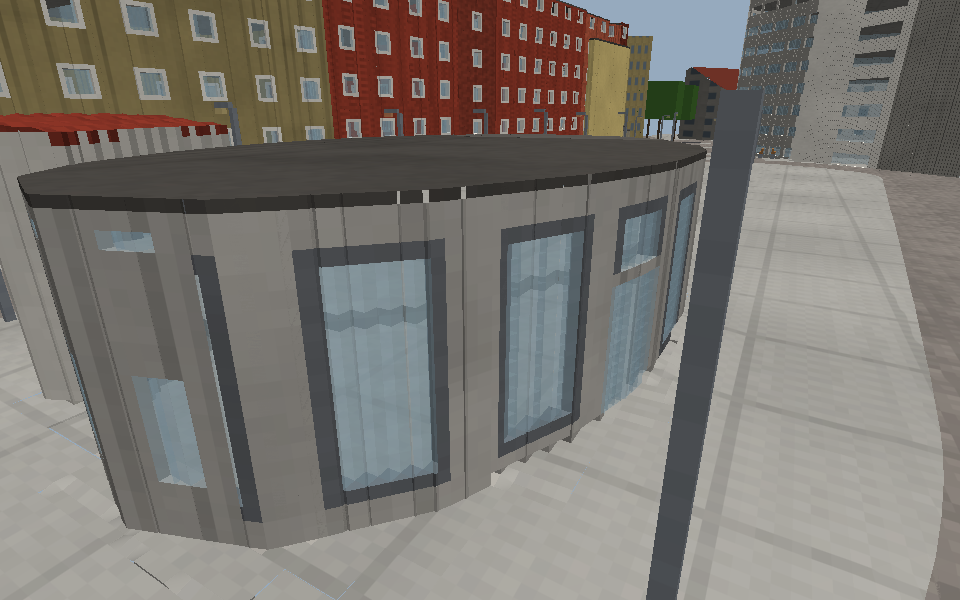
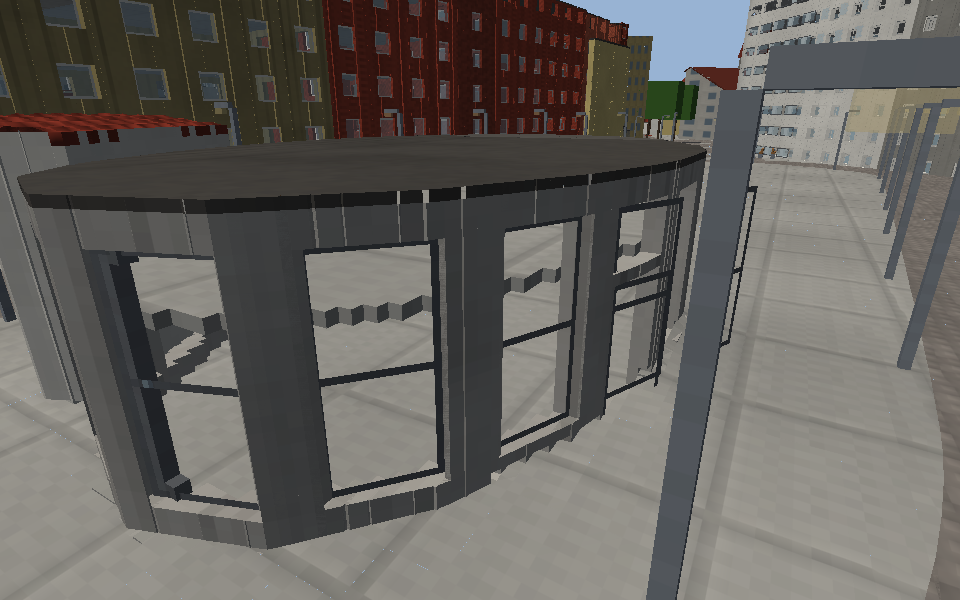
Fenster und Türen als eingehängte Elemente, Bodennetz bis an die Wand (Generator 23)
- Raser.Facade.Panes: je Öffnung ein Parallelogramm zwischen den
  Laibungen; FarMesher.Windows vernetzt Glas, Rahmenleisten, Türblätter
  und Tore für die nahe Stufe; die Voxel-Wand lässt die Öffnung frei
- GroundCut.Hard je Säule (1: etwas steht darauf, 2: Gelände weicht ab);
  FarMesher.Fringe füllt ausgesparte Zellen Säule für Säule bis an den
  Grundriss - Gehweg und Bordstein ohne Treppe am Wandfuß
- innere Wandlage auch hinter Schnitten; Mesh-Cache Version 7
- Tests angepasst (Öffnungen frei, Elemente aus der Fassade, harte Säulen)

Claude-Session: https://claude.ai/code/session_01Sz1bBYhg2rSfVgnCNfqZBp

diff --git a/ROADMAP.md b/ROADMAP.md
@@ -35,13 +35,14 @@ Eine Kachelregion (z. B. Bochum-Innenstadt, 2 × 2 km) wird von den Rohdaten üb
   - [x] Schnitte mit Versatz für Grundrisse aus den Daten (Generator 13): je Randvoxel eine Kante zwischen zwei Punkten auf seinem Rand (1/32 Voxel, 6 mm), Ecken mit einem Punkt im Voxel; Nachbarn teilen sich die Punkte - keine Stufen in jedem Winkel, Rundungen als Sehnen. Gemessen an gedrehten Rechtecken (2°..87°) und einem Kreis: mittlerer Fehler je Randvoxel 0,005..0,01 Voxel, keine Stufe über einem halben Voxel (vorher mit Diagonalen 0,06..0,34 und bis zu 52 Stufen). Diagonalen und Rundungen bleiben als Fertigteile für den Baumodus
   - [x] Grundrisse bereinigen (Raser.Footprints, beim Laden jeder Kachel - Werkzeug und Viewer gleich): Ecken rasten unter 15 cm ein, auch zwischen Gebäuden; Ecken knapp neben der Wand eines Nachbarn rücken auf sie (keine Schlitze zwischen Reihenhäusern); Knicke unter 5 cm fallen weg
   - [ ] Dieselben Regeln im Baumodus, in Client und Server: beim Umbauen rasten neue Ecken an Nachbarn und bestehende Kanten ein (eine gemeinsame Funktion in Raser.World), damit auch Umgebautes stimmig bleibt
-  - [ ] Bodennetz an Gebäuden genau am Grundriss ausschneiden statt in harten Zellen von 80 cm - heute bleibt an schrägen Wänden eine Treppe aus Voxel-Gelände (ohne Gehweg-Erhöhung) am Wandfuß
+  - [x] Bodennetz bis an die Wand: hart bleibt nur die Säule (20 cm), in der etwas steht; in den ausgesparten 80-cm-Zellen läuft das glatte Netz mit Gehweg und Bordstein Säule für Säule bis an den Grundriss (FarMesher.Fringe) - keine Treppe mehr am Wandfuß
   - [x] Dachüberstand bei Steildächern (40 cm an Traufe und Ortgang): eine Platte unter der fortgesetzten Dachfläche, Außenkante mit Schnitten, darunter die Untersicht - `docs/images/viewer-dachueberstand.png`
   - [ ] Dachüberstand auch in der fernen Stufe; Dachrinne und Fallrohr; Überstand je Baujahr/Stil (Altbau knapp, Siedlungshaus breit)
   - [x] Schnitte in der Ansicht (Raser.Plan.Elevation): dieselben Schnitte wie im Grundriss, aber senkrecht und entlang einer Achse durchgezogen - für Bögen
   - [x] Durchfahrten: Wege und Straßen, die ein Gebäude ganz durchqueren (mindestens 2,5 m darin), bekommen einen Durchgang mit Torbogen (Fußweg 3 m, sonst 4 m hoch, Stich bis 1,5 m), Pflaster am Boden, Decke darüber, fensterlose Seitenwände - `docs/images/viewer-durchfahrt.png`
   - [x] Haustüren mit Rundbogen (Stich 35 cm) und Oberlicht aus Glas; Wände zwei Voxel dick mit Laibung
-  - [ ] Türen als Bauelement im Baumodus (zwischen zwei Wänden eingehängt), Türblätter mit Füllungen und Klinke, Torbögen als Fertigteil; 3D-Dachziegel, Traufzähne
+  - [x] Dachziegel in Pixel-Art mit Relief (Bumpmap des Atlas: Ziegelreihen, Mauer- und Pflasterfugen) - `docs/images/viewer-dachziegel.png`
+  - [ ] Türen und Torbögen als Fertigteile im Baumodus, Klinken; Traufzähne
 - [x] Baumscheiben: einzelne Bäume (Plätze, Fußgängerzonen) in einem Quadrat aus Gras (1,4 m), an der nächsten Straße ausgerichtet, mit schmalen Kantensteinen (6 cm); zu nahe Bäume rücken beim Laden von der Fahrbahn weg (Raser.Props.Settle)
 - [x] Grünstreifen (Raser.Strips): Baumreihen an Straßen werden Beete zwischen Fahrbahn und Gehweg - zur Straße direkt am Bordstein, sonst schmale Kantensteine, Erde mit niedrigen Sträuchern (Voxel, zum Teil mit Blüten); der Gehweg liegt dahinter - `docs/images/viewer-gruenstreifen.png`
 - [x] Bordstein oben als Band von 12 cm; Pflasterrinne (30 cm) vor dem Bordstein bei etwa 4 von 10 Wohn- und Nebenstraßen; eckige Gullis etwa alle 30 m je Seite (in der Rinne, sonst im Asphalt am Bordstein)
@@ -50,6 +51,8 @@ Eine Kachelregion (z. B. Bochum-Innenstadt, 2 × 2 km) wird von den Rohdaten üb
   - [x] Fensterraster entlang der Wand: Läufe (Grundriss geteilt an Ecken über 30°, Rundungen bleiben ein Lauf), Plätze gleichmäßig je Lauf mit Abstand zu den Ecken - nichts geht mehr um die Ecke
   - [x] Fenster je Nutzung (ALKIS-Funktion, POI): Wohnhaus Lochfenster (1,4 m, weißer Rahmen ringsum, keine Kreuze), Laden/Gastro/Büro Schaufenster im Erdgeschoss zur Straße (dunkle Rahmen), Pavillon/Kiosk hohe Fenster, Gewerbe Fensterbänder, öffentlich hohe breite Fenster, Garagen Tore, Überdachungen nichts - `docs/images/viewer-pavillon-fenster.png`, `docs/images/viewer-schaufenster.png`
   - [x] Eingänge auf der Hauptseite (zur nächsten Straße): Haustür aus Holz, jede zweite drei Stufen hoch mit Betonstufen davor; Glastüren bei Läden (eine je 10 m), breite Automatiktür bei Märkten
+  - [x] Fenster, Türen und Tore als eingehängte Elemente (Raser.Facade.Panes, Generator 23): je Öffnung ein Parallelogramm zwischen linker und rechter Laibung, Glas mit Rahmenleisten, Türblatt mit Oberlicht - glatt auch in schrägen und runden Wänden; die Wand lässt nur die Öffnung frei. Dasselbe Prinzip für den Baumodus: linken und rechten Rand setzen, die Scheibe spannt sich dazwischen
+  - [ ] Pavillons ohne Zwischendecke hinter hohen Scheiben; Elemente auch für Balkontüren, Schaufenster über Eck
   - [ ] Die ferne Stufe (Fassaden-Textur) nach derselben Planung; Fenster mit Fensterbank, Laibung nach innen versetzt; Türen als Bauelement zwischen zwei Wänden; Vordächer und Markisen an Läden
   - [ ] Die innere Kante dicker Wände (hinter Schnitten) treppt in den Fensteröffnungen; Glas spiegelt kaum (Licht und Wetter)
 - [ ] (aufgegangen in den Bauelementen) Gerade Fronten in jedem Winkel: senkrechter Schnitt im Grundriss je Voxel (zwei Randpunkte in Vierteln, mit den Nachbarn geteilt), Fassaden schräg zum Gitter glatt, Fenster entlang der Wand; Grundstücke zur Straße ausrichten (gemeinsame Fluchtlinie), an der Grundstücksgrenze schräg abschneiden
@@ -65,7 +68,8 @@ Eine Kachelregion (z. B. Bochum-Innenstadt, 2 × 2 km) wird von den Rohdaten üb
 - [x] Wetterlagen in Stärken: klar, wolkig, bedeckt, Niesel, Regen, Starkregen, Dunst, Nebel, dichter Nebel (Viewer: --weather, --rain/--fog/--clouds, Tasten T/G Uhr, R Wetter, +/- Stärke) - `docs/images/viewer-regen.png`, `docs/images/viewer-nebel.png`
 - [x] Nasse Straßen (Stufe 1): bei Nässe eine nasse Textur (Beläge 40 % dunkler, Rasen und Wände etwas) und Glanz (Specular nach Nässe) - Laternen und Sonne als Lichter auf dem Asphalt - `docs/images/viewer-nass-nacht.png`, `docs/images/viewer-nass.png`
 - [x] Spiegelungen auf nassen Flächen (scene3d Object.Reflectivity, Bildschirm-Spiegelung), Regen als Striche (Emitter.Stretch), alle Laternen als Licht (Light.Cutoff mit Kacheln), Fenster der fernen Stufe leuchten nachts (Object.EmissiveTexture) - braucht fire `native-c`
-- [ ] Pfützen; Gewitter, Schnee, Wind; Wetter, das sich mit der Zeit ändert; Spiegelungen auch auf der GPU
+- [x] Pfützen ab Regen: dunkle, glatte Flecken auf den Belägen (dritte Textur mit flachem Relief) - `docs/images/viewer-pfuetzen.png`
+- [ ] Pfützen in Senken statt nach Rauschen, mit stärkerer Spiegelung; Gewitter, Schnee, Wind; Wetter, das sich mit der Zeit ändert; Spiegelungen auch auf der GPU
 - [ ] Ingame-Uhr in Echtzeit (deutsche Ortszeit, echter Sonnenstand), Zeitfaktor als Server-Einstellung
 - [ ] Mondphase/-stand astronomisch korrekt, Wolken mit orangem Stadtlicht-Himmel
 - [ ] Volumetrischer Nebel mit Lichtkegeln/Halos
